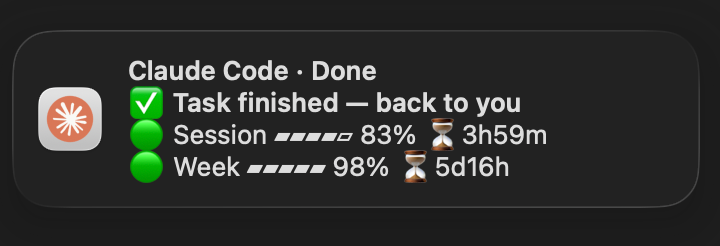
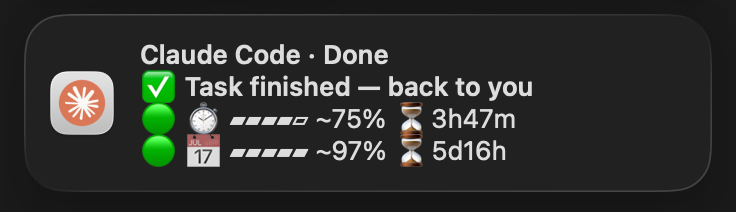
fix: align gauge bars with fixed-width emoji labels
Text labels (Session/Week) differ in width in the notification's proportional
font, pushing the bars out of alignment. Replace them with fixed-width emoji
labels — ⏱️ session, 📅 week — that line up in both languages. Bump to 1.2.1
and refresh the README sample, changelog, and demo screenshot.

diff --git a/usage.py b/usage.py
@@ -79,6 +79,9 @@ def clamp(n):
 # Color the balance at a glance: green plenty, yellow low, red almost out.
 LOW, CRITICAL = 30, 10
 BAR_SEGMENTS = 5
+# Fixed-width emoji labels so the bars line up in a proportional font (text
+# labels like "Session"/"Week" differ in width and break the alignment).
+SESSION_ICON, WEEK_ICON = "⏱️", "📅"
 
 
 def dot(pct):
@@ -149,9 +152,8 @@ def main():
     # Session and week go on their own lines so neither wraps. ⏳ marks "time
     # until reset"; a leading "~" marks a cached (slightly stale) percentage.
     mark = "~" if stale else ""
-    s_label, w_label = ("会话", "本周") if LANG == "zh" else ("Session", "Week")
-    s = f"{dot(session)} {s_label} {bar(session)} {mark}{session}%" + (f" ⏳{fmt_hm(s_reset)}" if s_reset is not None else "")
-    w = f"{dot(week)} {w_label} {bar(week)} {mark}{week}%" + (f" ⏳{fmt_dh(w_reset)}" if w_reset is not None else "")
+    s = f"{dot(session)} {SESSION_ICON} {bar(session)} {mark}{session}%" + (f" ⏳{fmt_hm(s_reset)}" if s_reset is not None else "")
+    w = f"{dot(week)} {WEEK_ICON} {bar(week)} {mark}{week}%" + (f" ⏳{fmt_dh(w_reset)}" if w_reset is not None else "")
     print(s)
     print(w)
 

diff --git a/CHANGELOG.md b/CHANGELOG.md
@@ -7,6 +7,14 @@ All notable changes to Claude Chime are recorded here. The format follows
 To upgrade, re-run the install one-liner (it is idempotent and pulls the latest
 runtime). See the README's **Updating** section.
 
+## [1.2.1] — 2026-06-13
+
+### Fixed
+- Gauge bars now line up. Text labels (`Session` / `Week`) differ in width in
+  the notification's proportional font, which pushed the bars out of alignment;
+  they're replaced with fixed-width emoji labels — ⏱️ session, 📅 week — that
+  align in both languages.
+
 ## [1.2.0] — 2026-06-13
 
 ### Added
@@ -49,5 +57,6 @@ runtime). See the README's **Updating** section.
 - Click the notification to focus the terminal that launched Claude Code.
 - One-line `curl | bash` installer/uninstaller; idempotent and hook-safe.
 
+[1.2.1]: https://github.com/wangpuv/claude-chime/releases/tag/v1.2.1
 [1.2.0]: https://github.com/wangpuv/claude-chime/releases/tag/v1.2.0
 [1.1.0]: https://github.com/wangpuv/claude-chime/releases/tag/v1.1.0

diff --git a/README.md b/README.md
@@ -55,11 +55,12 @@ The gauge shows your remaining limits, mirroring Claude Code's own `/usage`:
   (days + hours)
 
 Each line gets a 🟢🟡🔴 dot (plenty / low / almost out) and a little `▰▰▰▰▱`
-bar, so a chime reads like:
+bar. The labels are fixed-width emoji — ⏱️ session, 📅 week — so the bars line
+up in the notification's proportional font. A chime reads like:
 
 ```
-🟢 Session ▰▰▰▰▱ 78% ⏳3h59m
-🟢 Week    ▰▰▰▰▰ 98% ⏳5d16h
+🟢 ⏱️ ▰▰▰▰▱ 78% ⏳3h59m
+🟢 📅 ▰▰▰▰▰ 98% ⏳5d16h
 ```
 
 (`<1m` / `<1h` once a reset is imminent, and a leading `~` if the number is